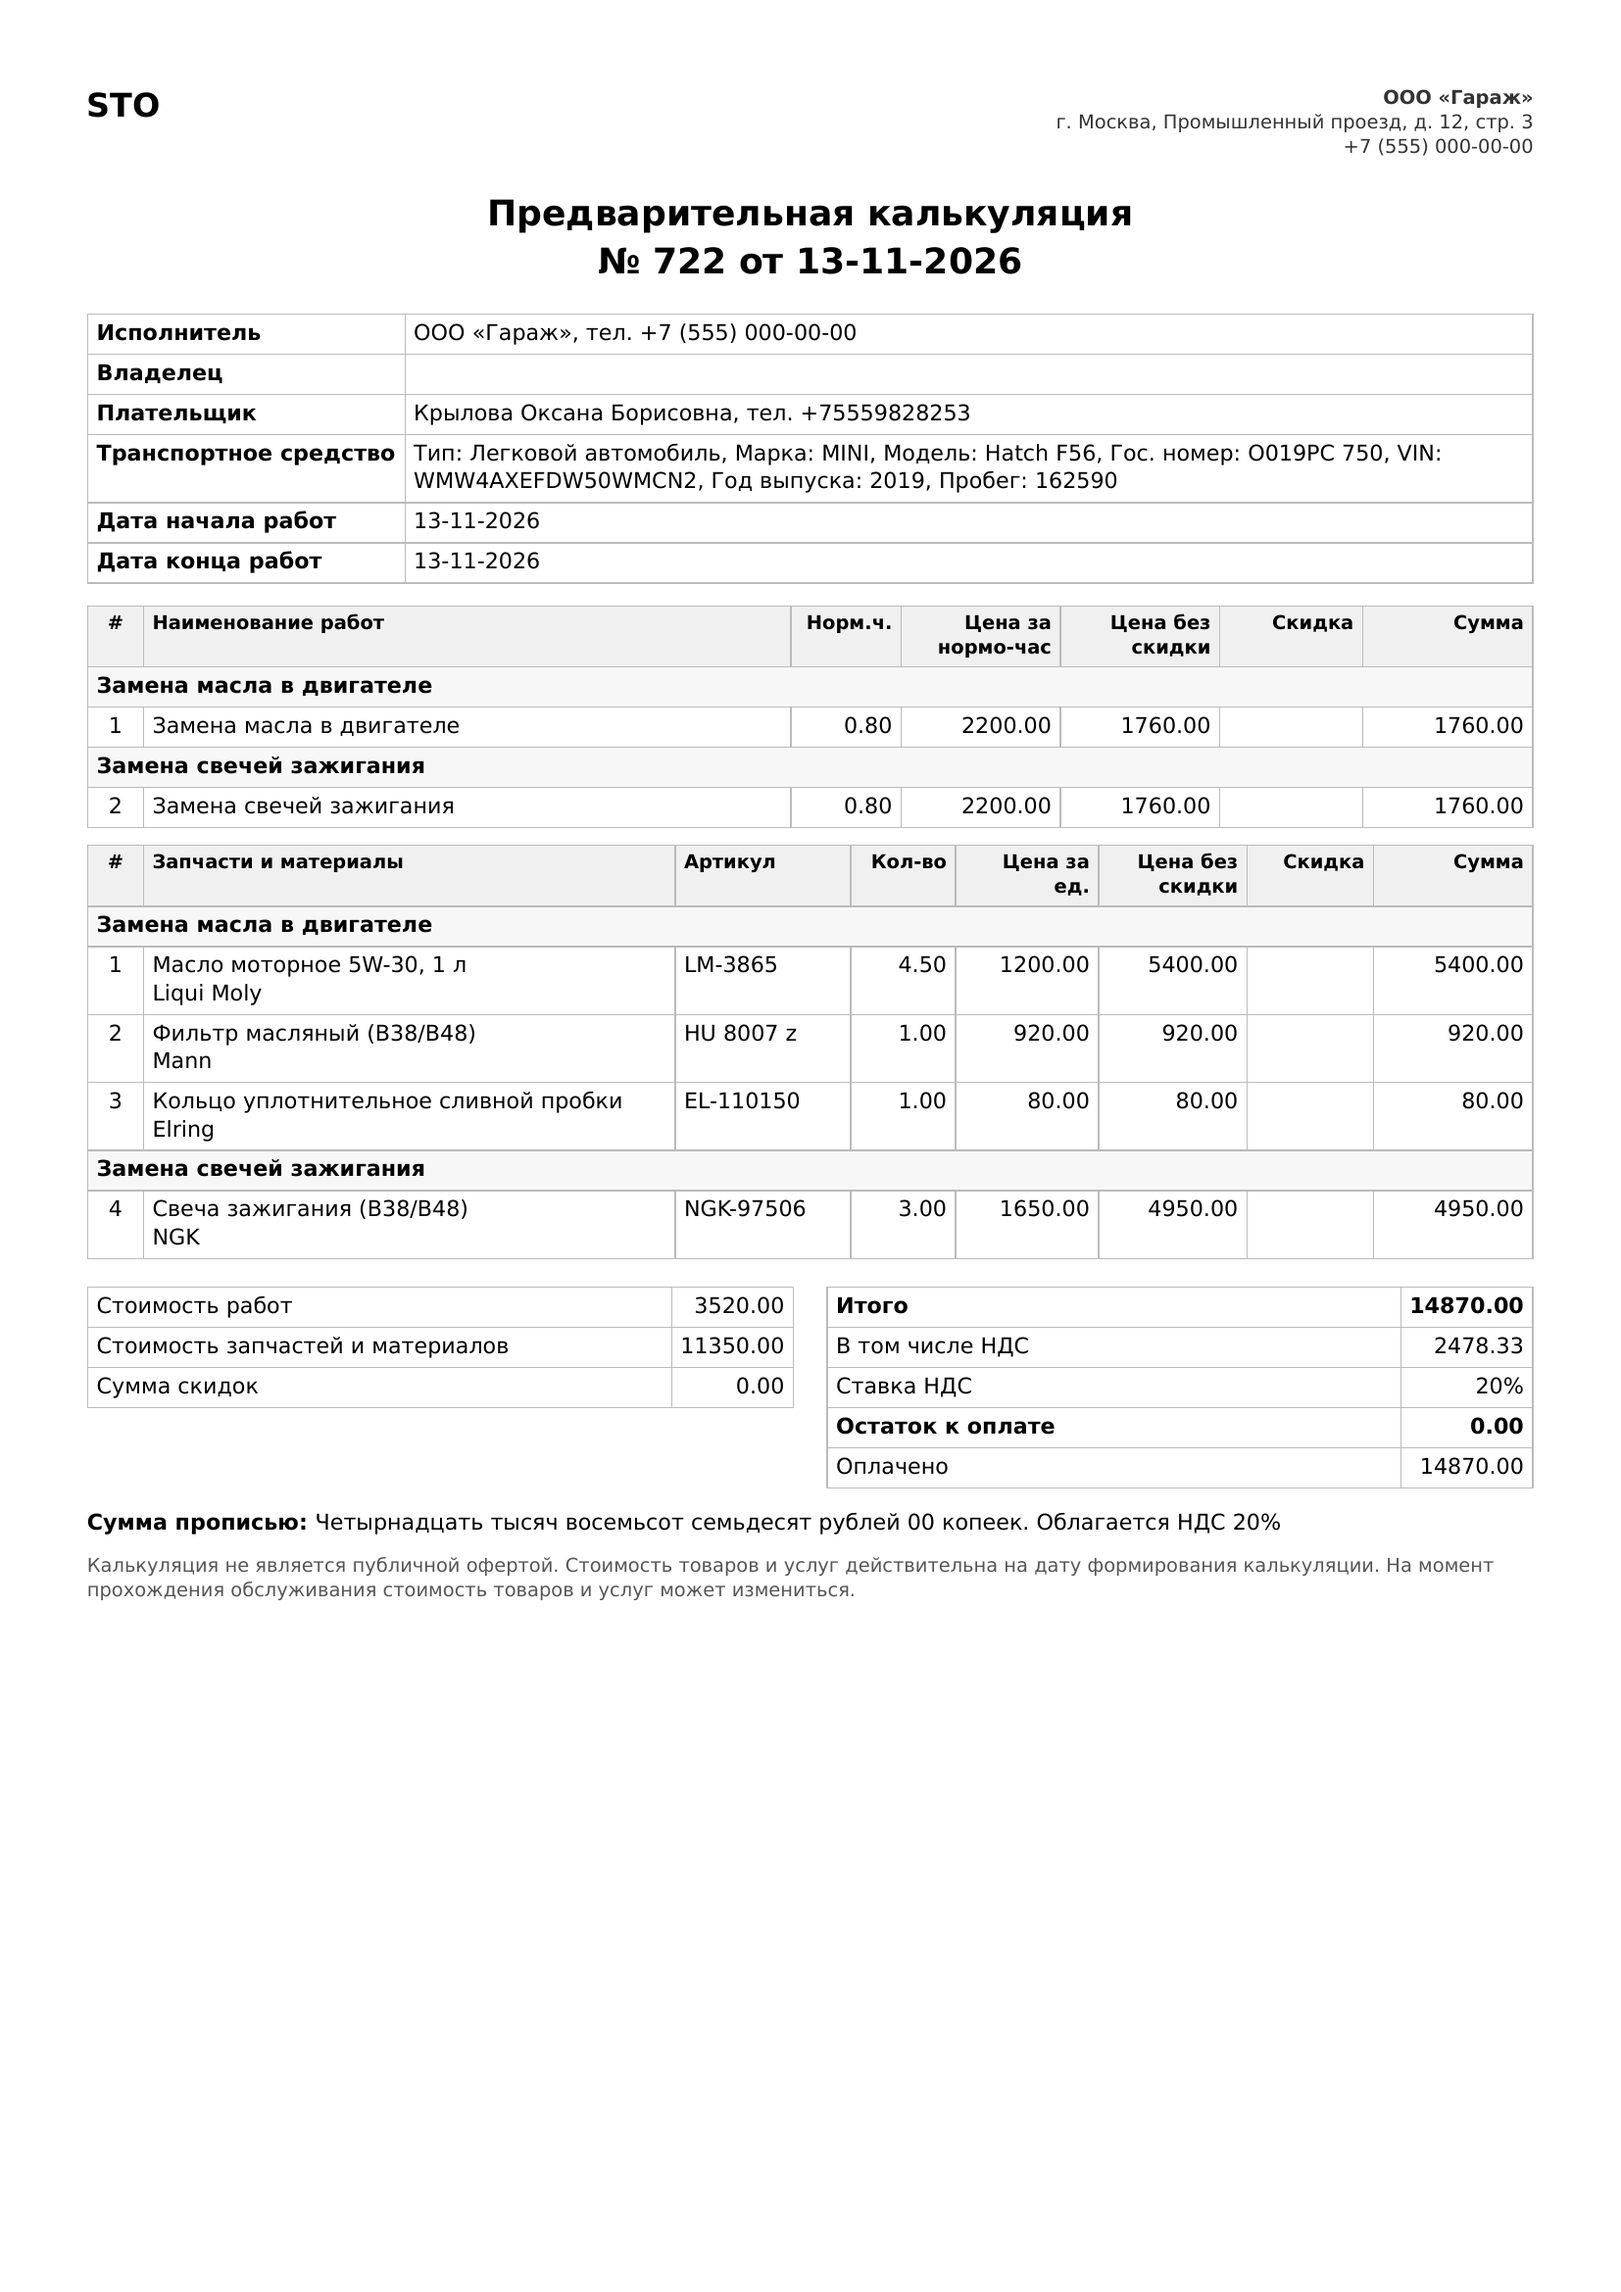
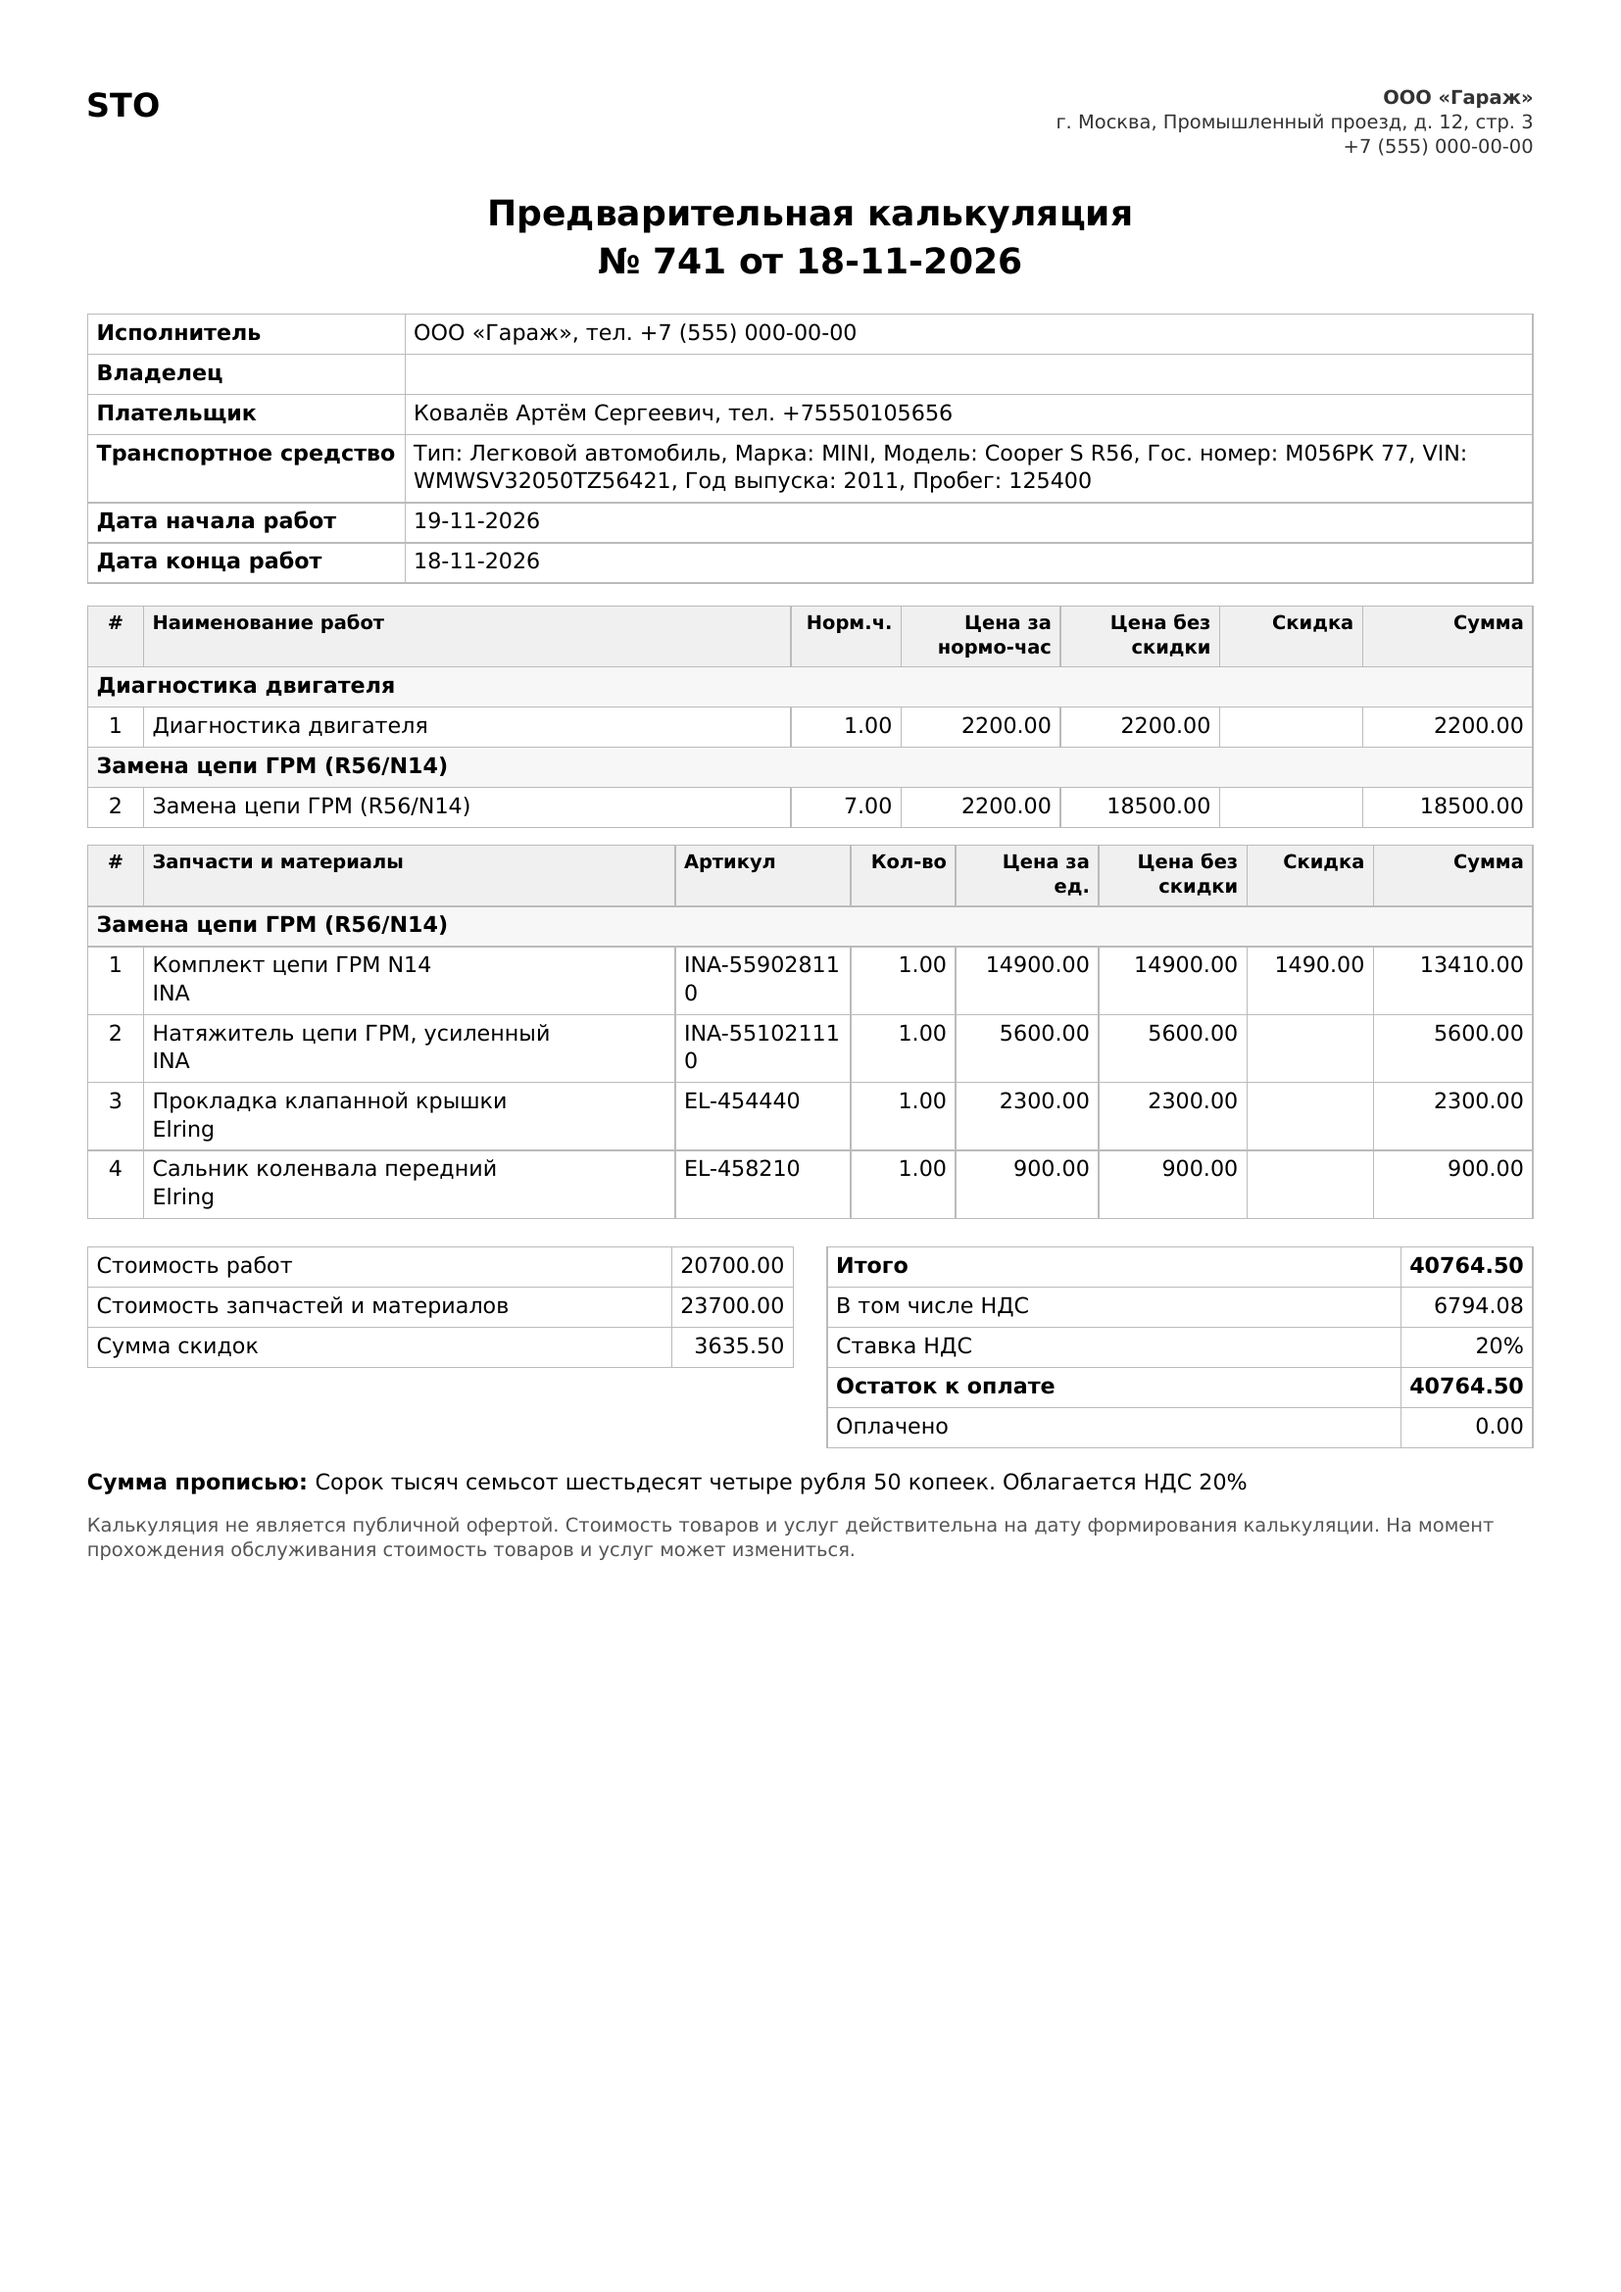
fix(video): smeta of the hero order (same data as the work order)
Exporter closes the hero copy after the order-pdf render, pins closed_at to
DEMO_NOW, renders /pdf -> smeta.png; the copy is deleted and sequences restored.

Claude-Session: https://claude.ai/code/session_011qMPT44PCdhS1LcY3nqaNi

diff --git a/video/scripts/export-fixtures.ts b/video/scripts/export-fixtures.ts
@@ -325,8 +325,6 @@ async function main(): Promise<void> {
 
     write('dashboard.json', await buildDashboard(db, demoNow));
 
-    pdfToPng(await pdf(owner, `/work-orders/${HERO.pdfOrderId}/pdf`), join(DOCS, 'smeta.png'));
-
     // ---- hero: real mutations on a copy of the closed diagnostics order, then put the database back.
     const seqBefore = await readSequences(db);
     const { freeSlot } = heroSchedule(demoNow);
@@ -382,6 +380,13 @@ async function main(): Promise<void> {
       await snap(4);
 
       pdfToPng(await pdf(owner, `${path}/order-pdf`), join(DOCS, 'order-pdf.png'));
+
+      // The estimate of the SAME order (the Docs scene fans it out behind the order PDF): close the
+      // copy (freezes the total, draws doc_number from work_order_doc_number_seq — given back below),
+      // pin the API-clock closed_at to DEMO_NOW, render, and let `finally` delete the copy.
+      await call(owner, 'POST', `${path}/close`, {});
+      await db.query(`UPDATE work_orders SET closed_at = $2 WHERE id = $1`, [copyId, demoNow]);
+      pdfToPng(await pdf(owner, `${path}/pdf`), join(DOCS, 'smeta.png'));
     } finally {
       if (copyId) await call(owner, 'DELETE', `/work-orders/${copyId}`);
       // order-pdf drew a number for the copy; give it back so the database ends as it started.
